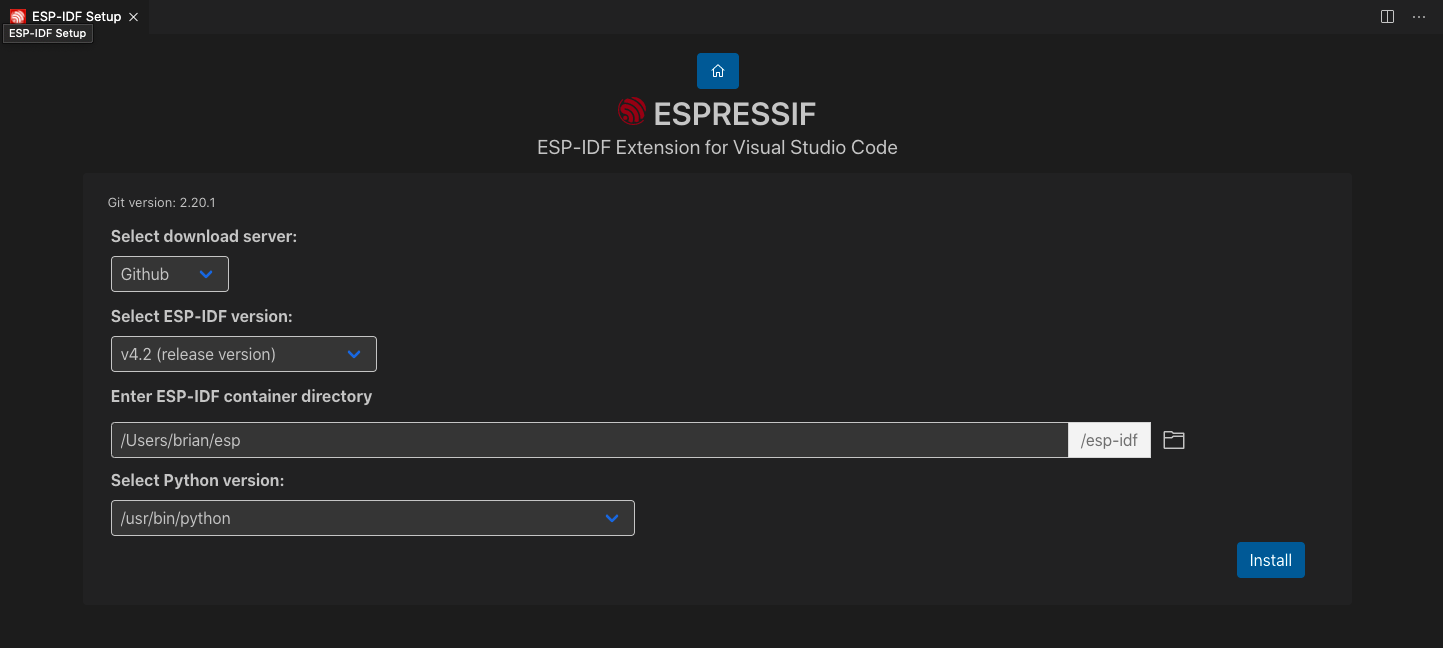
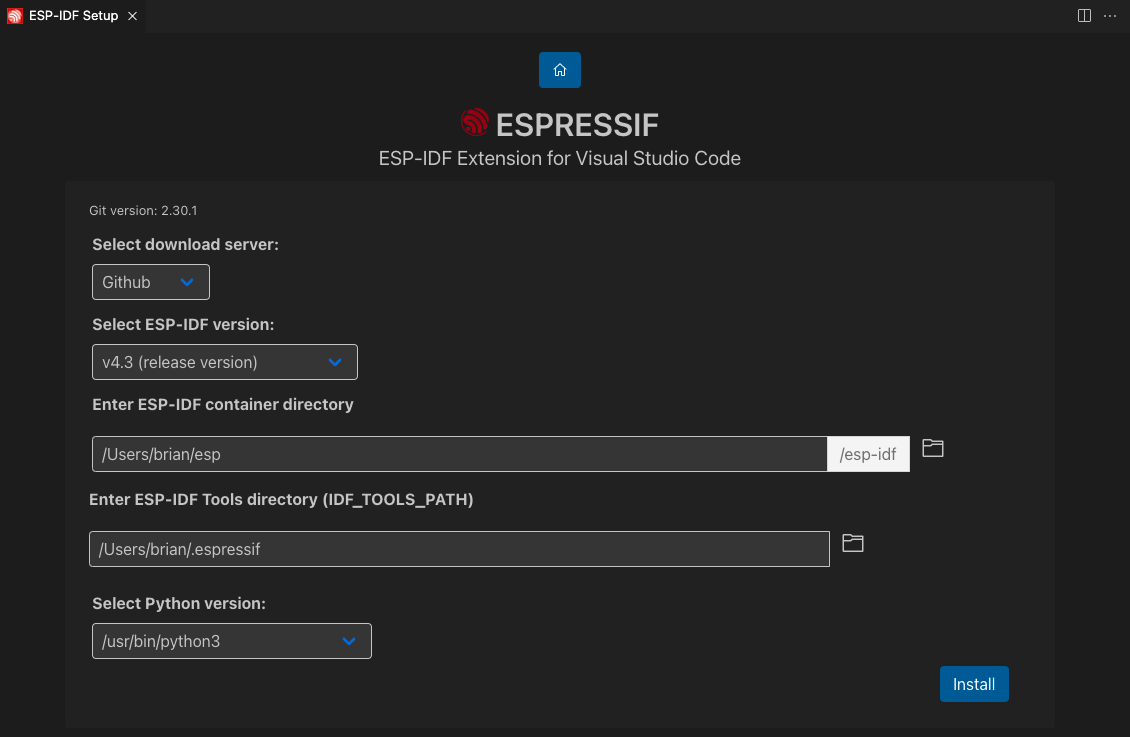
fix manually set custom settings

diff --git a/src/checkExtensionSettings.ts b/src/checkExtensionSettings.ts
@@ -24,9 +24,10 @@ import {
 import { Logger } from "./logger/logger";
 import { OutputChannel } from "./logger/outputChannel";
 import { installExtensionPyReqs } from "./pythonManager";
-import { readParameter, writeParameter } from "./idfConfiguration";
+import { readParameter } from "./idfConfiguration";
 
 export async function checkExtensionSettings(extensionPath: string) {
+  const showSetupWindow = readParameter("idf.showOnboardingOnInit") as boolean;
   const isExtensionConfigured = await isCurrentInstallValid();
   if (isExtensionConfigured) {
     return;
@@ -48,11 +49,17 @@ export async function checkExtensionSettings(extensionPath: string) {
           setupArgs.espToolsPath &&
           setupArgs.pyBinPath &&
           setupArgs.exportedPaths &&
-          setupArgs.exportedVars
+          setupArgs.exportedVars &&
+          setupArgs.gitPath
         ) {
-          if (!setupArgs.hasPrerequisites) {
+          if (showSetupWindow && !setupArgs.hasPrerequisites) {
             vscode.commands.executeCommand("espIdf.setup.start", setupArgs);
+            return;
           }
+          progress.report({
+            increment: 5,
+            message: "ESP-IDF and tools found, configuring the extension...",
+          });
           await installExtensionPyReqs(
             setupArgs.pyBinPath,
             setupArgs.espToolsPath,
@@ -65,13 +72,13 @@ export async function checkExtensionSettings(extensionPath: string) {
             setupArgs.pyBinPath,
             setupArgs.exportedPaths,
             setupArgs.exportedVars,
-            setupArgs.espToolsPath
+            setupArgs.espToolsPath,
+            setupArgs.gitPath
           );
-          const confTarget = readParameter(
-            "idf.saveScope"
-          ) as vscode.ConfigurationTarget;
-          await writeParameter("idf.gitPath", setupArgs.gitPath, confTarget);
-        } else if (typeof process.env.WEB_IDE === "undefined") {
+        } else if (
+          typeof process.env.WEB_IDE === "undefined" &&
+          showSetupWindow
+        ) {
           vscode.commands.executeCommand("espIdf.setup.start", setupArgs);
         }
       } catch (error) {
@@ -79,7 +86,9 @@ export async function checkExtensionSettings(extensionPath: string) {
           ? error.message
           : "Error loading initial configuration.";
         Logger.errorNotify(msg, error);
-        vscode.commands.executeCommand("espIdf.setup.start");
+        if (showSetupWindow) {
+          vscode.commands.executeCommand("espIdf.setup.start");
+        }
       }
     }
   );

diff --git a/src/setup/SetupPanel.ts b/src/setup/SetupPanel.ts
@@ -266,15 +266,8 @@ export class SetupPanel {
               setupArgs.pyBinPath,
               setupArgs.exportedPaths,
               setupArgs.exportedVars,
-              setupArgs.espToolsPath
-            );
-            const confTarget = idfConf.readParameter(
-              "idf.saveScope"
-            ) as vscode.ConfigurationTarget;
-            await idfConf.writeParameter(
-              "idf.gitPath",
-              setupArgs.gitPath,
-              confTarget
+              setupArgs.espToolsPath,
+              setupArgs.gitPath
             );
             this.panel.webview.postMessage({
               command: "setIsInstalled",
@@ -420,12 +413,12 @@ export class SetupPanel {
       }, "")
       .slice(1);
     const exportedVars = {};
-    for (const tool of toolsInfo) {
-      Object.keys(tool.env).forEach((key, index, arr) => {
-        if (Object.keys(exportedVars).indexOf(key) !== -1) {
-          exportedVars[key] = tool.env[key];
+    for (let tool of toolsInfo) {
+      for (let envKey of Object.keys(tool.env)) {
+        if (Object.keys(exportedVars).indexOf(envKey) === -1) {
+          exportedVars[envKey] = tool.env[envKey];
         }
-      });
+      }
     }
     const exportedVarsStr = JSON.stringify(exportedVars);
     return { exportedPaths, exportedVars: exportedVarsStr };

diff --git a/src/views/setup/components/selectEspIdf.vue b/src/views/setup/components/selectEspIdf.vue
@@ -34,7 +34,7 @@
       </div>
     </div>
     <folderOpen
-      propLabel="Enter ESP-IDF directory"
+      propLabel="Enter ESP-IDF directory (IDF_PATH)"
       :propModel.sync="espIdf"
       :propMutate="setEspIdfPath"
       :openMethod="openEspIdfFolder"
@@ -54,7 +54,7 @@
 </template>
 
 <script lang="ts">
-import { Component, Prop, Vue } from "vue-property-decorator";
+import { Component, Vue } from "vue-property-decorator";
 import { IdfMirror, IEspIdfLink } from "../types";
 import { State, Action, Mutation } from "vuex-class";
 import folderOpen from "./folderOpen.vue";

diff --git a/src/setup/setupInit.ts b/src/setup/setupInit.ts
@@ -338,7 +338,8 @@ export async function saveSettings(
   pythonBinPath: string,
   exportedPaths: string,
   exportedVars: string,
-  toolsPath: string
+  toolsPath: string,
+  gitPath: string
 ) {
   const confTarget = idfConf.readParameter(
     "idf.saveScope"
@@ -352,5 +353,6 @@ export async function saveSettings(
     confTarget
   );
   await idfConf.writeParameter("idf.customExtraVars", exportedVars, confTarget);
+  await idfConf.writeParameter("idf.gitPath", gitPath, confTarget);
   window.showInformationMessage("ESP-IDF has been configured");
 }

diff --git a/src/setup/pyReqsInstallStep.ts b/src/setup/pyReqsInstallStep.ts
@@ -47,7 +47,8 @@ export async function createPyReqs(
     virtualEnvPath,
     exportPaths,
     exportVars,
-    toolsPath
+    toolsPath,
+    gitPath
   );
   let idfPathVersion = await getEspIdfVersion(idfPath, gitPath);
   await addIdfPath(idfPath, virtualEnvPath, idfPathVersion, toolsPath, gitPath);

diff --git a/src/views/setup/Install.vue b/src/views/setup/Install.vue
@@ -18,7 +18,7 @@
       </div>
 
       <folderOpen
-        propLabel="Enter ESP-IDF Tools directory"
+        propLabel="Enter ESP-IDF Tools directory (IDF_TOOLS_PATH)"
         :propModel.sync="toolsFolder"
         :propMutate="setToolsFolder"
         :openMethod="openEspIdfToolsFolder"

diff --git a/docs/tutorial/install.md b/docs/tutorial/install.md
@@ -15,12 +15,21 @@
 6. In Visual Studio Code, select menu "View" and "Command Palette" and type [configure esp-idf extension]. After, choose the **ESP-IDF: Configure ESP-IDF extension** option.
 7. Now the setup wizard window will be shown with several setup options: **Express**, **Advanced** or **Use existing setup**.
 
+> **NOTE**: **Use existing setup** setup mode option is only shown if:
+>
+> - `esp-idf.json` is found in the current `idf.toolsPath` (MacOS/Linux users) or `idf.toolsPathWin` (Windows users). This file is generated when you install ESP-IDF with the [IDF Windows installer](https://github.com/espressif/idf-installer) or using [IDF-ENV](https://github.com/espressif/idf-env).
+> - ESP-IDF is found in `idf.espIdfPath` or `idf.espIdfPathWin`, `IDF_PATH` environment variable, `$HOME/esp/esp-idf` on MacOS/Linux and `%USERPROFILE%\esp\esp-idf` or `%USERPROFILE%\Desktop\esp-idf` in Windows.
+> - ESP-IDF Tools and ESP-IDF Python virtual environment for the previos ESP-IDF are found in `idf.toolsPath` or`idf.toolsPathWin`, `IDF_TOOLS_PATH` environment variable, `$HOME\.espressif` on MacOS/Linux and `%USERPROFILE%\.espressif` on Windows.
+
 <p>
   <img src="../../media/tutorials/setup/select-mode.png" alt="Select extension mode" width="950">
 </p>
 
 8. Choose **Express** for the fastest option (or **Use existing setup** if ESP-IDF is already installed)
-9. Then pick an ESP-IDF version to download (or search for an existing ESP-IDF directory in your system) and the python executable to create the virtual environment.
+9. If you choose **Express** setup mode:
+    - Pick an ESP-IDF version to download (or find ESP-IDF in your system) and the python executable to create the virtual environment.
+    - Choose the location for ESP-IDF Tools and python virtual environment (also known as `IDF_TOOLS_PATH`) which is `$HOME\.espressif` on MacOS/Linux and `%USERPROFILE%\.espressif` on Windows by default.
+    > **NOTE:** Windows users don't need to select a python executable since it is part of the setup.
 
 <p>
   <img src="../../media/tutorials/setup/select-esp-idf.png" alt="Select ESP-IDF" width="950">
@@ -32,7 +41,7 @@
   <img src="../../media/tutorials/setup/install-status.png" alt="Install status" width="950">
 </p>
 
-11. (OPTIONAL) If the user have chosen the **Advanced** option, after ESP-IDF is downloaded and extracted, the next step is to choose the location for `IDF_TOOLS_PATH` (which is `$HOME\.espressif` on MacOS/Linux and `%USERPROFILE%\.espressif` on Windows by default) and select to download ESP-IDF Tools or manually provide each ESP-IDF tool absolute path and required environment variables.
+11. (OPTIONAL) If the user have chosen the **Advanced** option, after ESP-IDF is downloaded and extracted, select to either download ESP-IDF Tools or manually provide each ESP-IDF tool absolute path and required environment variables.
     > **NOTE:** Consider that `IDF_PATH` requires each ESP-IDF tool to be of the version described in `IDF_PATH`/tools/tools.json.
     > If it is desired to use a different ESP-IDF tool version, check [JSON Manual Configuration](../SETUP.md#JSON-Manual-Configuration)
 
@@ -46,12 +55,7 @@
   <img src="../../media/tutorials/setup/install-complete.png" alt="Install complete">
 </p>
 
-> **NOTE**: **Use existing setup** is only shown if:
->
-> - ESP-IDF is found in `IDF_PATH` environment variable, `$HOME/esp/esp-idf` on MacOS/Linux and `%USERPROFILE%\esp\esp-idf` or `%USERPROFILE%\Desktop\esp-idf` in Windows.
-> - ESP-IDF Tools and ESP-IDF Python virtual environment for the previos ESP-IDF are found in `IDF_TOOLS_PATH` environment variable, `$HOME\.espressif` on MacOS/Linux and `%USERPROFILE%\.espressif` on Windows.
-
-> **NOTE**: The advance mode allows the user to choose where to install ESP-IDF Tools and virtual environment if downloading ESP-IDF tools, or to use existing ESP-IDF tools by manually entering each ESP-IDF tool absolute path.
+> **NOTE**: The advance mode allows the user to choose to use existing ESP-IDF tools by manually entering each ESP-IDF tool absolute path.
 
 Now that the extension setup is finally done, check the [basic use](./basic_use.md) to learn how to use the SDK Configuration editor, build, flash and monitor your Espressif device.
 
